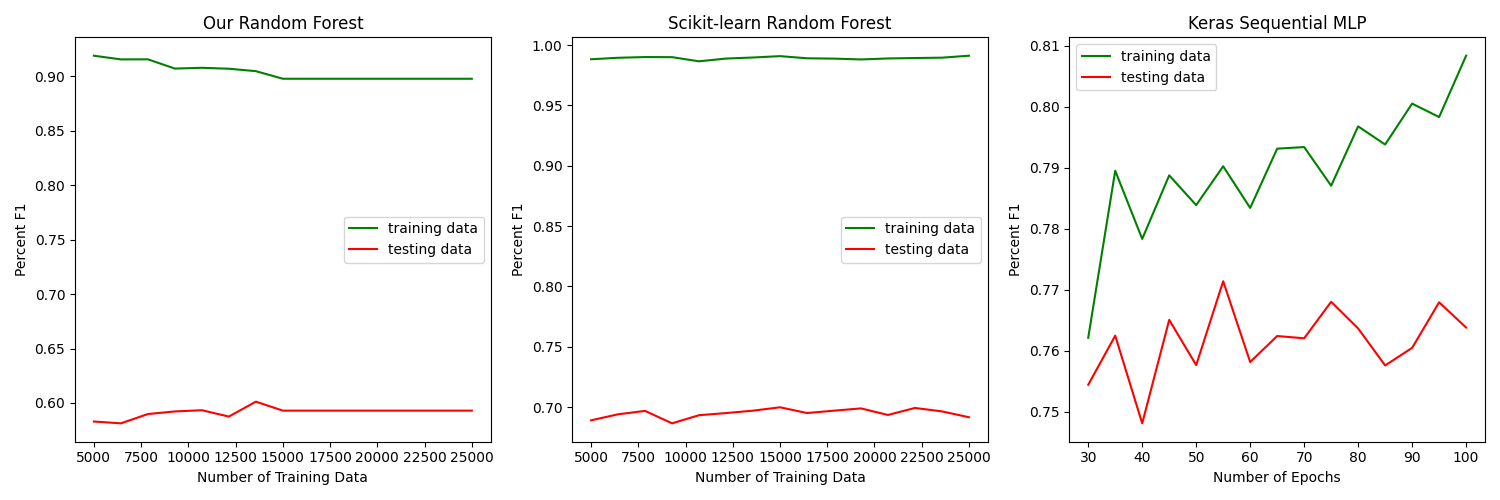
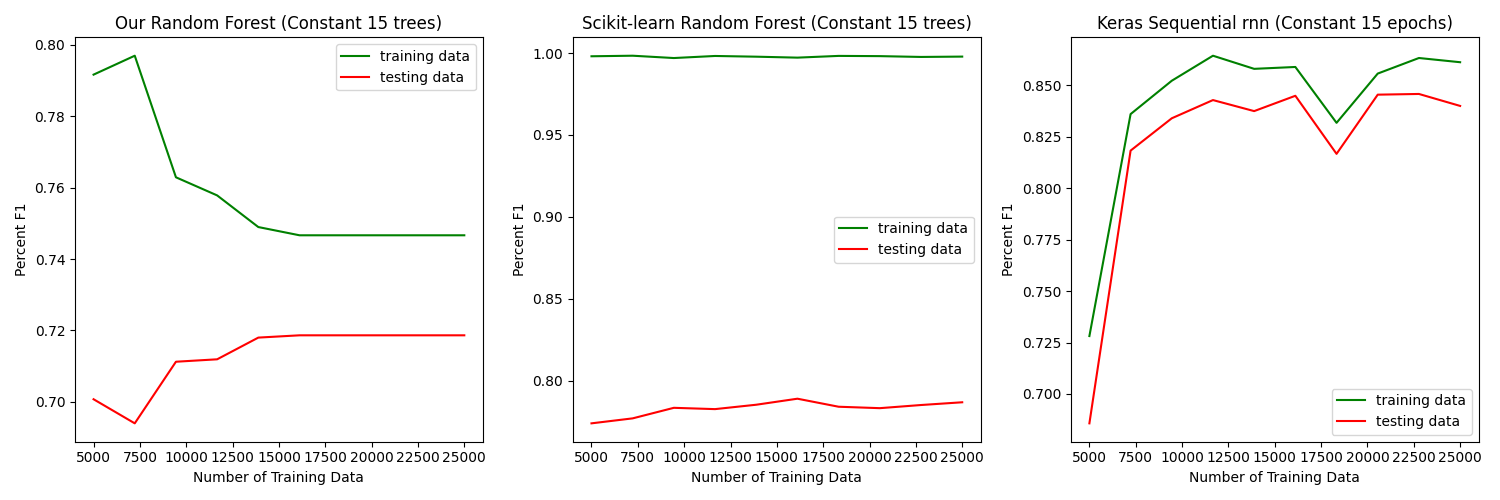
finalized random forest

diff --git a/RandomForest.py b/RandomForest.py
@@ -10,7 +10,7 @@ import tensorflow as tf
 from keras.preprocessing.sequence import pad_sequences
 from sklearn.metrics import precision_score, recall_score, f1_score, accuracy_score
 
-def random_forest(x_train, y_train, x_test, y_test, fv_skip_top, fv_length, tree_number, tree_fv_length, min_ig):
+def random_forest(x_train, y_train, x_test, y_test, fv_skip_top, fv_length, tree_number, tree_fv_length, min_ig, majority_percentage):
 
     #create encoded feature vector (index of words)
     encoded_feature_vector = imdb.getFeatureVector(skip_top=fv_skip_top, num_words=fv_length)
@@ -56,7 +56,7 @@ def random_forest(x_train, y_train, x_test, y_test, fv_skip_top, fv_length, tree
     #create ID3 forest for the ensamble
     forest = []
     for i in range(tree_number):
-        id3_tree = ID3(features=encoded_tree_feature_vectors[i], min_ig=min_ig)
+        id3_tree = ID3(features=encoded_tree_feature_vectors[i], min_ig=min_ig, majority_percentage=majority_for_split)
         id3_tree.fit(train_examples, np.array(y_train))
         forest.append(id3_tree)
 
@@ -83,9 +83,9 @@ def random_forest(x_train, y_train, x_test, y_test, fv_skip_top, fv_length, tree
 
 
     #implement sklearn's random forest for comparison
-    sl_random_forest = RandomForestClassifier(n_estimators=tree_number)
-    sl_random_forest.fit(train_examples,np.array(y_train))
-    sklearn_random_forest_pred = sl_random_forest.predict(test_examples)
+    sklearn_random_forest = RandomForestClassifier(n_estimators=tree_number)
+    sklearn_random_forest.fit(train_examples,np.array(y_train))
+    sklearn_random_forest_pred = sklearn_random_forest.predict(test_examples)
 
 
     return y_test, majority_outcome, sklearn_random_forest_pred
@@ -93,14 +93,15 @@ def random_forest(x_train, y_train, x_test, y_test, fv_skip_top, fv_length, tree
 #Ορισμός υπερπαραμέτρων
 sys.setrecursionlimit(3000)
 
-train_step = np.linspace(5000,25000,15,dtype=int)
-tree_number = 23
-fv_skip_top = 50
-fv_length = 1000
-tree_fv_length = 300
-min_ig_for_split = 0.05 #used to determine the stopping point for id3 tree splits
-vocab_size = 5000
-max_sequence_length = 250
+train_step = np.linspace(5000,25000,10,dtype=int)
+tree_number = 15
+fv_skip_top = 45
+fv_length = 600
+tree_fv_length = 450
+min_ig_for_split = 0.02 #used to determine the stopping point for id3 tree splits
+majority_for_split = 0.85 #used to determine an early stopping point for id3 tree splits 
+vocab_size = fv_length
+max_sequence_length = 512
 
 #obtain imdb data 
 imdb = IMDB()
@@ -131,11 +132,11 @@ for step in range(len(train_step)):
     y_train = y_train_raw[:train_step[step]]
 
     #training data tests
-    y_test_train, y_pred_train_our, y_pred_train_sklearn = random_forest(x_train=x_train, y_train=y_train, x_test=x_train, y_test=y_train, fv_skip_top=fv_skip_top, fv_length=fv_length,tree_number=tree_number,tree_fv_length=tree_fv_length, min_ig=min_ig_for_split)
+    y_test_train, y_pred_train_our, y_pred_train_sklearn = random_forest(x_train=x_train, y_train=y_train, x_test=x_train, y_test=y_train, fv_skip_top=fv_skip_top, fv_length=fv_length,tree_number=tree_number,tree_fv_length=tree_fv_length, min_ig=min_ig_for_split, majority_percentage=majority_for_split)
     
     print("Data for training tests was gathered at step -> " + str(train_step[step]))
     #testing data tests
-    y_test_test, y_pred_test_our, y_pred_test_sklearn = random_forest(x_train=x_train, y_train=y_train, x_test=x_test_raw, y_test=y_test_raw, fv_skip_top=fv_skip_top, fv_length=fv_length,tree_number=tree_number,tree_fv_length=tree_fv_length, min_ig=min_ig_for_split)
+    y_test_test, y_pred_test_our, y_pred_test_sklearn = random_forest(x_train=x_train, y_train=y_train, x_test=x_test_raw, y_test=y_test_raw, fv_skip_top=fv_skip_top, fv_length=fv_length,tree_number=tree_number,tree_fv_length=tree_fv_length, min_ig=min_ig_for_split, majority_percentage=majority_for_split)
     print("Data for testing tests was gathered at step -> " + str(train_step[step]))
 
     #pad data sequences to fit into a specific size
@@ -145,10 +146,9 @@ for step in range(len(train_step)):
     #create the rnn with gru layers sequential model
     imdb_rnn_with_gru = tf.keras.models.Sequential([
         tf.keras.layers.Embedding(vocab_size, output_dim = 32, input_length = max_sequence_length), #embedding layer
-        tf.keras.layers.GRU(units=32, dropout=0.3, return_sequences = True),#gru layer 1
-        tf.keras.layers.GRU(units=32, dropout=0.3, return_sequences = False),#gru layer 2
+        tf.keras.layers.GRU(units=32, dropout=0.2, return_sequences = False),#gru layer 1
+        tf.keras.layers.Dropout(rate=0.5),#dropout on last layer before output
         tf.keras.layers.Dense(units=1, activation='sigmoid')  #output layer, output = probability of classification in the positive category
-
     ])
     #compile the model
     imdb_rnn_with_gru.compile(optimizer='adam',
@@ -157,7 +157,7 @@ for step in range(len(train_step)):
 
 
     #train the rnn model, we use a constant number of epochs to compare with the other implementations, the only variable here is the training data 
-    imdb_rnn_with_gru.fit(rnn_train_data, y_train, epochs=10, batch_size=1024, validation_data=(rnn_test_data, y_test_raw))
+    imdb_rnn_with_gru.fit(rnn_train_data, y_train, epochs=15, batch_size=1024, validation_data=(rnn_test_data, y_test_raw))
 
     #obtain rnn model's predictions, if the probability is above 0.5 we consider it a positive classification, negative otherwise.
     #on training predictions
@@ -170,18 +170,34 @@ for step in range(len(train_step)):
         our_results[metric]['train'].append(func(y_true=y_test_train, y_pred=y_pred_train_our))
         our_results[metric]['test'].append(func(y_true=y_test_test, y_pred=y_pred_test_our))
         print('Calculated Our ' + metric)
-
+        templist_train = [str(val) for val in our_results[metric]['train']]
+        templist_test = [str(val) for val in our_results[metric]['test']]
+        print('Train: ')
+        print(templist_train)
+        print('Test: ')
+        print(templist_test)
 
         #calculate metrics for sklearn implementation
         sklearn_results[metric]['train'].append(func(y_true=y_test_train, y_pred=y_pred_train_sklearn))
         sklearn_results[metric]['test'].append(func(y_true=y_test_test, y_pred=y_pred_test_sklearn))
         print('Calculated SKLearn ' + metric)
-
+        templist_train = [str(val) for val in sklearn_results[metric]['train']]
+        templist_test = [str(val) for val in sklearn_results[metric]['test']]
+        print('Train: ')
+        print(templist_train)
+        print('Test: ')
+        print(templist_test)
 
         #calculate metrics for the sequential rnn implementation 
         rnn_results[metric]['train'].append(func(y_true=y_test_train, y_pred=y_pred_train_rnn))
         rnn_results[metric]['test'].append(func(y_true=y_test_test, y_pred=y_pred_test_rnn))
         print('Calculated RNN ' + metric)
+        templist_train = [str(val) for val in rnn_results[metric]['train']]
+        templist_test = [str(val) for val in rnn_results[metric]['test']]
+        print('Train: ')
+        print(templist_train)
+        print('Test: ')
+        print(templist_test)
 
 print("Data collection for all training steps has been completed!\n")
 
@@ -193,8 +209,8 @@ print('Gathering RNN Loss Data...\n')
 #create the rnn with gru layers sequential model again
 imdb_rnn_with_gru = tf.keras.models.Sequential([
     tf.keras.layers.Embedding(vocab_size, output_dim = 32, input_length = max_sequence_length), #embedding layer
-    tf.keras.layers.GRU(units=32, dropout=0.3, return_sequences = True),#gru layer 1
-    tf.keras.layers.GRU(units=32, dropout=0.3, return_sequences = False),#gru layer 2
+    tf.keras.layers.GRU(units=32, dropout=0.2, return_sequences = False),#gru layer 1
+    tf.keras.layers.Dropout(rate=0.5),#dropout on last layer before output
     tf.keras.layers.Dense(units=1, activation='sigmoid')  #output layer, output = probability of classification in the positive category
 ])
 
@@ -206,7 +222,7 @@ imdb_rnn_with_gru.compile(optimizer='adam',
 rnn_train_data2 = pad_sequences(sequences=x_train_raw, maxlen=max_sequence_length)
 rnn_test_data2 = pad_sequences(sequences=x_test_raw, maxlen=max_sequence_length)
 #run the fit method again for the last step in epoch_step
-rnn_history = imdb_rnn_with_gru.fit(rnn_train_data2, y_train_raw, epochs=20, batch_size=1024, validation_data=(rnn_test_data, y_test_raw))
+rnn_history = imdb_rnn_with_gru.fit(rnn_train_data2, y_train_raw, epochs=25, batch_size=1024, validation_data=(rnn_test_data, y_test_raw))
 
 print('RNN Loss Data has been colected!\n')
 
@@ -214,18 +230,30 @@ print('RNN Loss Data has been colected!\n')
 print("Writing results...\n\n")
 for metric in metrics.keys():
     print( metric.capitalize() + ' Results')
-    print('Train Step: ' + [str(step) for step in train_step])
+    train_step_list = ['Train Step: '] 
+    train_step_list.extend([str(step) for step in train_step])
+    print(train_step_list)
     for result in results.keys():
-        print(result + 'implementation')
-        print('Train Results: ' + [str(val) for val in results[result][metric]['train']])
-        print('Test Results: ' + [str(val) for val in results[result][metric]['test']])
+        print(result + ' implementation')
+        train_results_list = ['Train Results: ']
+        test_results_list = ['Test Results: ']
+        train_results_list.extend([str(val) for val in results[result][metric]['train']])
+        test_results_list.extend([str(val) for val in results[result][metric]['test']])
+        print(train_results_list)
+        print(test_results_list)
 
 
 #write results for rnn losses
 print('\n\nRNN with GRU Loss Data')
-print('Epochs: ' + [str(epoch) for epoch in np.linspace(1,20,20,dtype=int)])
-print('Loss: ' + [str(loss) for loss in rnn_history.history['loss']])
-print('Validation Loss: ' + [str(loss) for loss in rnn_history.history['val_loss']])
+epochs_list = ['Epochs: ']
+losses_list = ['Loss: ']
+val_losses_list = ['Validation Loss: ']
+epochs_list.extend([str(epoch) for epoch in np.linspace(1,20,20,dtype=int)])
+losses_list.extend([str(loss) for loss in rnn_history.history['loss']])
+val_losses_list.extend([str(loss) for loss in rnn_history.history['val_loss']])
+print(epochs_list)
+print(losses_list)
+print(val_losses_list)
 
 #plot the results
 for metric in metrics.keys():
@@ -234,7 +262,7 @@ for metric in metrics.keys():
     #subplot for our implementation
     axs[0].plot(train_step, our_results[metric]['train'], color='green', label='training data')
     axs[0].plot(train_step, our_results[metric]['test'], color='red', label='testing data')
-    axs[0].set_title('Our Random Forest (Constant 11 trees)')
+    axs[0].set_title('Our Random Forest (Constant 15 trees)')
     axs[0].set_xlabel('Number of Training Data')
     axs[0].set_ylabel(f'Percent {metric.capitalize()}')
     axs[0].legend()
@@ -242,7 +270,7 @@ for metric in metrics.keys():
     #subplot for scikit-learn implementation
     axs[1].plot(train_step, sklearn_results[metric]['train'], color='green', label='training data')
     axs[1].plot(train_step, sklearn_results[metric]['test'], color='red', label='testing data')
-    axs[1].set_title('Scikit-learn Random Forest (Constant 11 trees)')
+    axs[1].set_title('Scikit-learn Random Forest (Constant 15 trees)')
     axs[1].set_xlabel('Number of Training Data')
     axs[1].set_ylabel(f'Percent {metric.capitalize()}')
     axs[1].legend()
@@ -250,7 +278,7 @@ for metric in metrics.keys():
     #subplot for rnn implementation
     axs[2].plot(train_step, rnn_results[metric]['train'], color='green', label='training data')
     axs[2].plot(train_step, rnn_results[metric]['test'], color='red', label='testing data')
-    axs[2].set_title('Keras Sequential rnn (Constant 30 epochs)')
+    axs[2].set_title('Keras Sequential rnn (Constant 15 epochs)')
     axs[2].set_xlabel('Number of Training Data')
     axs[2].set_ylabel(f'Percent {metric.capitalize()}')
     axs[2].legend()
@@ -259,11 +287,12 @@ for metric in metrics.keys():
     plt.tight_layout()
     plt.show()
 
-    #plot the rnn loss based on epochs
-    plt.plot(np.linspace(1,20,20,dtype=int),rnn_history.history['loss'], color='blue', label='training data')
-    plt.plot(np.linspace(1,20,20,dtype=int),rnn_history.history['val_loss'], color='orange', label='validation data')
-    plt.set_title('Keras Sequential rnn (Constant all of the train-test data)')
-    plt.set_xlabel('Epochs')
-    plt.set_ylabel('Percent Loss')
-    plt.legend()
-    plt.show()
+#plot the rnn loss based on epochs
+plt.plot(np.linspace(1,25,25,dtype=int),rnn_history.history['loss'], color='blue', label='training data')
+plt.plot(np.linspace(1,25,25,dtype=int),rnn_history.history['val_loss'], color='orange', label='validation data')
+plt.title('Keras Sequential rnn (Constant all of the train-test data)')
+plt.xlabel('Epochs')
+plt.ylabel('Percent Loss')
+plt.legend()
+plt.tight_layout()
+plt.show()

diff --git a/id3.py b/id3.py
@@ -10,10 +10,11 @@ class Node:
         self.category = category
 
 class ID3:
-    def __init__(self, features, min_ig=0.01):
+    def __init__(self, features, min_ig=0.01, majority_percentage=0.95):
         self.tree = None
         self.features = features
         self.min_ig = min_ig  # minimum information gain to continue splitting
+        self.majority_percentage = majority_percentage  # majority percentage for early stopping
     
     def fit(self, x, y):
         '''
@@ -34,6 +35,10 @@ class ID3:
             return Node(checking_feature=None, is_leaf=True, category=0)
         elif np.all(y_train.flatten() == 1):
             return Node(checking_feature=None, is_leaf=True, category=1)
+        
+        # check majority percentage for early stopping
+        if np.max(np.bincount(y_train.flatten())) / len(y_train.flatten()) >= self.majority_percentage:
+            return Node(checking_feature=None, is_leaf=True, category=mode(y_train.flatten()))
         
         if len(features) == 0:
             return Node(checking_feature=None, is_leaf=True, category=mode(y_train.flatten()))
@@ -71,8 +76,6 @@ class ID3:
         
         return root
 
-
-
     @staticmethod
     def calculate_ig(classes_vector, feature):
         classes = set(classes_vector)
@@ -81,7 +84,6 @@ class ID3:
         for c in classes:
             PC = list(classes_vector).count(c) / len(classes_vector)  # P(C=c)
             HC += - PC * math.log(PC, 2)  # H(C)
-            # print('Overall Entropy:', HC)  # entropy for C variable
             
         feature_values = set(feature)  # 0 or 1 in this example
         HC_feature = 0
@@ -101,7 +103,8 @@ class ID3:
                     HC_feature += temp_H
         
         ig = HC - HC_feature
-        return ig    
+        return ig
+
 
     def predict(self, x):
         predicted_classes = list()
